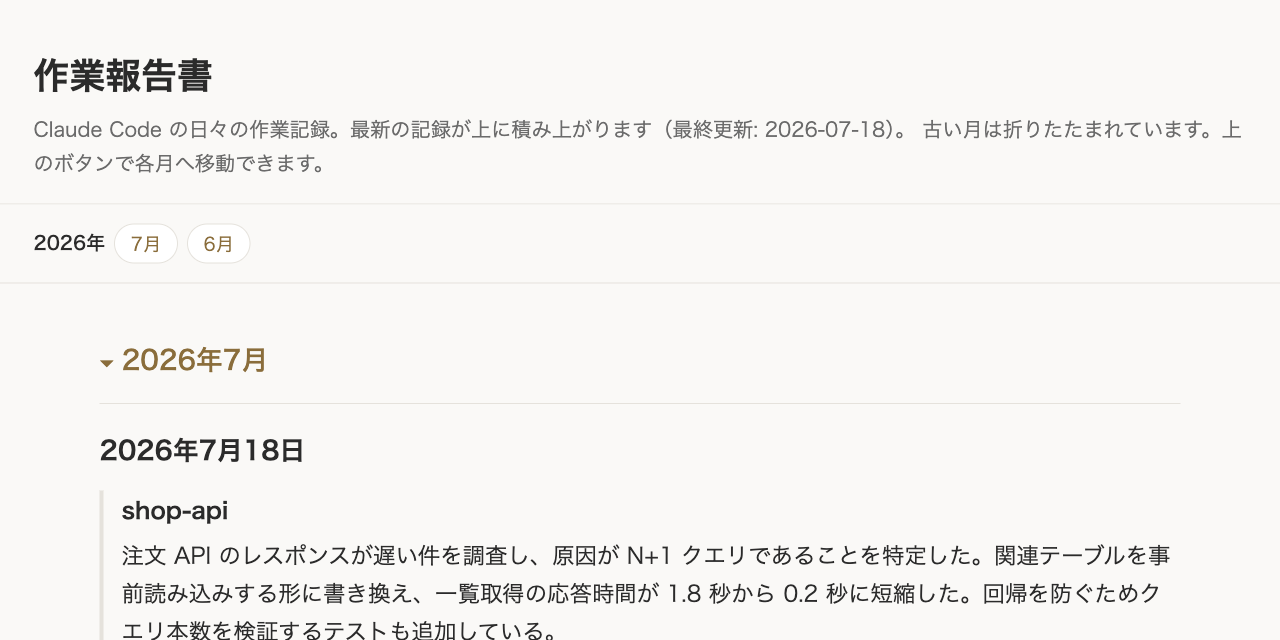
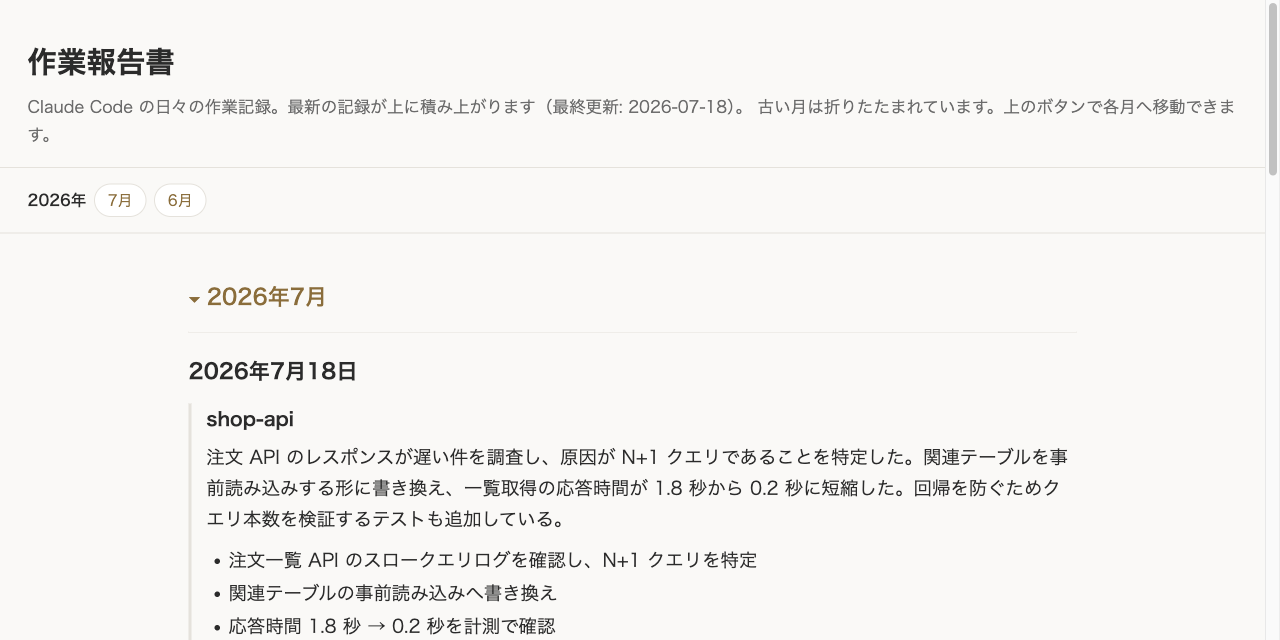
fix: 最終レビュー指摘を反映（配布先非依存化・README補完・テスト強化・OGP再撮影）
- seed_demo.py: リポジトリのディレクトリ名(kiroku)に依存したsys.path挿入を廃止し、
  kirokuパッケージを明示的にバインドすることでZIPダウンロードやリネームしたforkでも
  動作するように修正
- README: OGP撮影手順にfullPage不使用・配信元ディレクトリの注記を追加し、
  月ボタン移動と地層の比喩を機能一覧に復元
- test_seed_demo.py: write_demo_htmlが実データ(entries.json/state.json/作業報告書.html)
  に触れていないことを検証するアサーションを追加
- ogp.png: ズーム1.4から1.15に変更し、複数の作業カードが見えるよう撮り直し

diff --git a/tests/test_seed_demo.py b/tests/test_seed_demo.py
@@ -2,6 +2,8 @@
 import importlib.util
 from pathlib import Path
 
+from kiroku import config
+
 REPO_ROOT = Path(__file__).resolve().parent.parent
 
 
@@ -59,8 +61,12 @@ def test_renders_html_to_given_path(tmp_path):
     """CLI 相当の write_demo_html が指定パスにだけ書くこと。"""
     mod = _load_seed_demo()
     out = tmp_path / "demo.html"
+    before = {p: p.stat().st_mtime_ns for p in
+              (config.ENTRIES_PATH, config.STATE_PATH, config.HTML_PATH) if p.exists()}
     mod.write_demo_html(out)
     html = out.read_text(encoding="utf-8")
     assert "<title>作業報告書</title>" in html
     assert 'class="month-btn"' in html
     assert list(tmp_path.iterdir()) == [out], "指定パス以外にも書き出している"
+    assert {p: p.stat().st_mtime_ns for p in before} == before, \
+        "実データ（entries.json / state.json / 作業報告書.html）に触れている"

diff --git a/README.md b/README.md
@@ -10,6 +10,7 @@
 - 同じ日に何度実行しても、その日の作業は 1 項目にまとめ直される
 - スリープ復帰時に自動実行（任意）、または Dock のアイコンをクリックで実行
 - 生成物・元データはすべてローカル。外部送信なし
+- 上部の月ボタンで各月へジャンプ。地層のように記録が貯まっていく
 
 ## 動作要件
 
@@ -162,8 +163,9 @@ REST API / `gh` CLI からは設定できず、画面からの手動アップロ
 キャプチャ設定は次のとおりです:
 
 - `docs/images/hero.png` — ビューポート 900×1390、ズームなし
-- `docs/images/ogp.png` — ビューポート 1280×640、ズーム 1.4（サムネイルでも読めるように拡大）
-- ブラウザによっては `file://` を開けないため、`python3 -m http.server` で 127.0.0.1 に配信してから開く
+- `docs/images/ogp.png` — ビューポート 1280×640、ズーム 1.15（サムネイルでも読めるように拡大）
+- 撮影は fullPage ではなくビューポートのみ（下端がカードの途中で切れることで「まだ下に続く」ことを示すため）
+- 出力先ディレクトリ（上記なら `/tmp`）で `python3 -m http.server` を起動し、127.0.0.1 経由で開く
 
 ## メンテナ向け: トラフィック記録（任意）
 